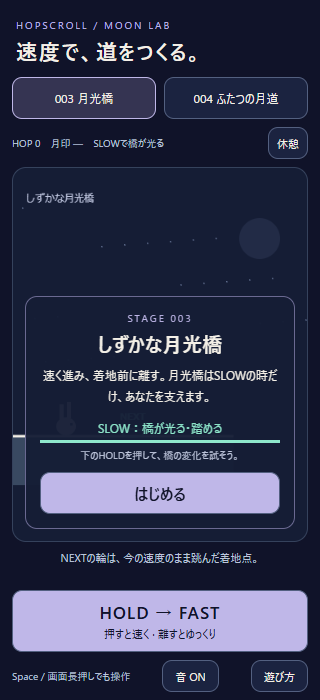
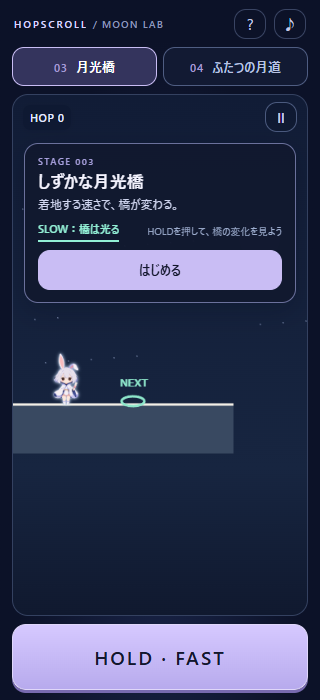
feat: integrate Michiru into playable Moon Journey bridge and fork

diff --git a/moon-journey.html b/moon-journey.html
@@ -1,0 +1,50 @@
+<!doctype html>
+<html lang="ja">
+<head>
+<meta charset="utf-8">
+<meta name="viewport" content="width=device-width,initial-scale=1,viewport-fit=cover">
+<title>HOPSCROLL · Moon Journey</title>
+<link rel="stylesheet" href="moon-lab.css">
+</head>
+<body data-journey="true"><main>
+<header class="topbar">
+  <span class="brand">HOPSCROLL <span class="lab">/ MOON JOURNEY</span></span>
+  <div class="utilities">
+    <button id="help" class="icon-button" aria-label="遊び方" title="遊び方">?</button>
+    <button id="mute" class="icon-button" aria-label="効果音のミュート" aria-pressed="false" title="効果音">♪</button>
+  </div>
+</header>
+<nav class="stage-tabs" aria-label="ステージ">
+  <button data-stage="0" aria-pressed="true"><span class="stage-number">03</span> 月光橋</button>
+  <button data-stage="1" aria-pressed="false"><span class="stage-number">04</span> ふたつの月道</button>
+</nav>
+<div class="world">
+  <div class="hud">
+    <span id="progress">HOP 0</span>
+    <span id="checkpoint" hidden>☾ 月印</span>
+    <span id="bonus" hidden>● 団子</span>
+    <button id="pause" class="icon-button" aria-label="一時停止" title="一時停止">Ⅱ</button>
+  </div>
+  <canvas id="world" width="360" height="420" aria-label="自動で跳ぶ月兎。白い足場へ着地。薄藤の橋は指を離して着地すると安全。緑の輪は安全な次の着地点、赤は危険。"></canvas>
+  <section id="panel" aria-live="polite">
+    <p id="eyebrow">STAGE 003</p>
+    <h2 id="title">しずかな月光橋</h2>
+    <p id="description"></p>
+    <div id="demo">
+      <span id="bridge-demo">SLOW：橋が光る・踏める</span>
+      <small>HOLDを押して、橋の変化を見よう</small>
+    </div>
+    <div class="panel-actions">
+      <button id="action">はじめる</button>
+      <button id="restart" hidden>最初から</button>
+    </div>
+  </section>
+</div>
+<p id="hint" class="sr-only" aria-live="polite">NEXTは次に着地する場所。</p>
+<button id="resume" hidden>▶ SLOWで再開</button>
+<button id="hold" aria-label="押している間はFAST、離すとSLOW">
+  <strong id="speed">HOLD → FAST</strong>
+</button>
+<p class="sr-only">画面長押しまたはSpaceキーでもFAST。指を離すとSLOW。一時停止で中断できます。</p>
+</main><script type="module" src="src/moon-lab.mjs"></script></body>
+</html>

diff --git a/docs/superpowers/plans/2026-10-31-moon-journey.md b/docs/superpowers/plans/2026-10-31-moon-journey.md
@@ -1,0 +1,24 @@
+# Moon Journey Implementation Plan
+
+**Goal:** Issue #13: playable Michiru integration first, then five verified stages and an offline ZIP.
+**Architecture:** Keep core physics and the two-stage Moon Lab regression target. Share Michiru rendering with the existing approved atlas and Canvas fallback. A journey entry uses the same runtime with ordered campaign data.
+**Tech Stack:** Native Canvas/DOM ES modules, Node solver/tests, Python packaging, real Chrome automation.
+**Spec:** Issue #13, docs/MOON_STAGE_PACK_v0.1.md, docs/MOON_RABBIT_CHARACTER_v0.1.md.
+
+## Constraints
+- Work only in integration/moon-journey-v01 dedicated worktree. No main merge, publication or LAN server.
+- PERIOD=.78, SLOW=105, FAST=270. Preserve legacy campaign and STAR RUN.
+- Minimal labels; playfield and landing preview explain the mechanic. Procedural landing audio only.
+
+## Review focus
+- Atlas HTTP failure leaves a visible character carrying dango.
+- Touch cancellation, blur and restart release input.
+- Checkpoint starts with safe released landing and preserves items; recovery excludes FULL MOON.
+- Narrow viewport cards leave the landing track and HOLD accessible.
+- Extracted offline ZIP resolves every module and licensed asset.
+
+## Tasks
+- [x] Merge #9 → #12 → #10 → #11 with auditable merge commits; baseline physics/solver suites.
+- [ ] P0: src/michiru.mjs, src/moon-lab.mjs, moon-journey.html: approved poses/fallback and 003→004 next/retry flow. Browser input, screenshots, commit/push and Draft PR.
+- [ ] P1: src/moon-journey-levels.mjs, tests/moon-journey.test.mjs: 001/002/005 with safe intro, release decisions, optional fork and festival. Replay reference/alternate solver paths across frame rates and local timing jitter. Checkpoint envelopes. Commit/push.
+- [ ] Export: scripts/build_moon_journey.py, tests/moon-journey-browser.mjs and CI. Build ZIP root index and exercise extracted artifact in Chrome at 320×700, 360×640, 720×1280, including fallback, transitions, bonus/recovery, sound. Review screenshots. Update README/HANDOFF/QA with provenance, deviations and human/device limits. Commit/push and update Draft PR.

diff --git a/docs/MOON_JOURNEY_QA.md b/docs/MOON_JOURNEY_QA.md
@@ -1,0 +1,14 @@
+# Moon Journey integration — Issue #13
+
+## P0 playable milestone
+- Integrated #9 f138226 → #12 ed44861 → #10 327ce92 → #11 bf65af0 with separate merge commits in the dedicated integration worktree.
+- `/moon-journey.html`: Michiru sprite B in real 003/004 play, SLOW/FAST/landing/HAPPY/failure, Canvas fallback on actual image HTTP failure, next-stage and restart flow. Moon Lab remains a two-stage regression target.
+- Baseline campaign / STAR RUN / Moon physics and solver tests pass. Chrome Moon browser tests pass at 320×700, 360×640, 720×1280 including both full routes, optional dango, checkpoint recovery, FULL MOON, pointercancel, blur/pause and restart.
+- `node tests/moon-journey-browser.mjs`: approved atlas, SLOW/FAST/HAPPY, failed image request fallback and 003→004 through real UI. Captures in `docs/moon-journey-screenshots/`; inspected 360px live play: visible sprite, unobscured NEXT and reachable HOLD.
+- Source provenance remains `art/generated/michiru/PROVENANCE.md`; no new generated art or soundtrack.
+
+## Current scope and discrepancies
+Issue #13 supersedes the earlier division of work and merge order in HANDOFF/CODEX_TASK/INTEGRATION, and the design pack's rollout order. Approved PR #12 character document is retained. The provisional 003/004 checkpoint and terrain differences remain documented in MOON_LAB_QA and are not reverted.
+
+## Pending after P0
+001/002/005 solver admission, five-stage entry, real Moon Journey ZIP and built-artifact Chrome QA. Human enjoyment, physical Android, physical speaker listening and itch embedding are unverified. No main merge, deployment, itch publication or LAN server.
